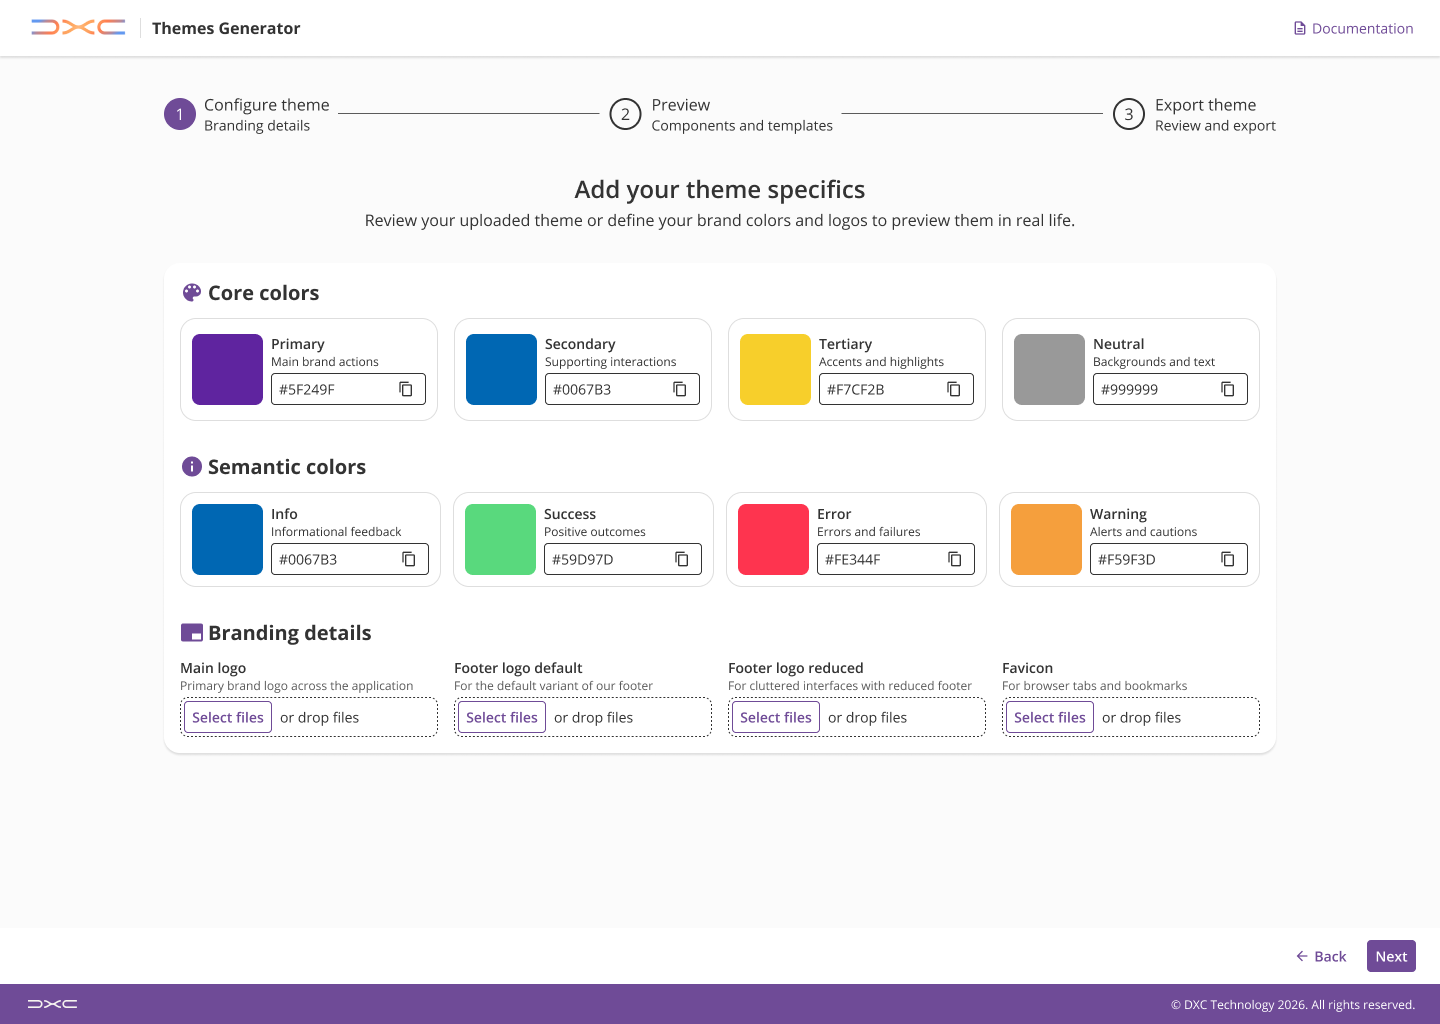
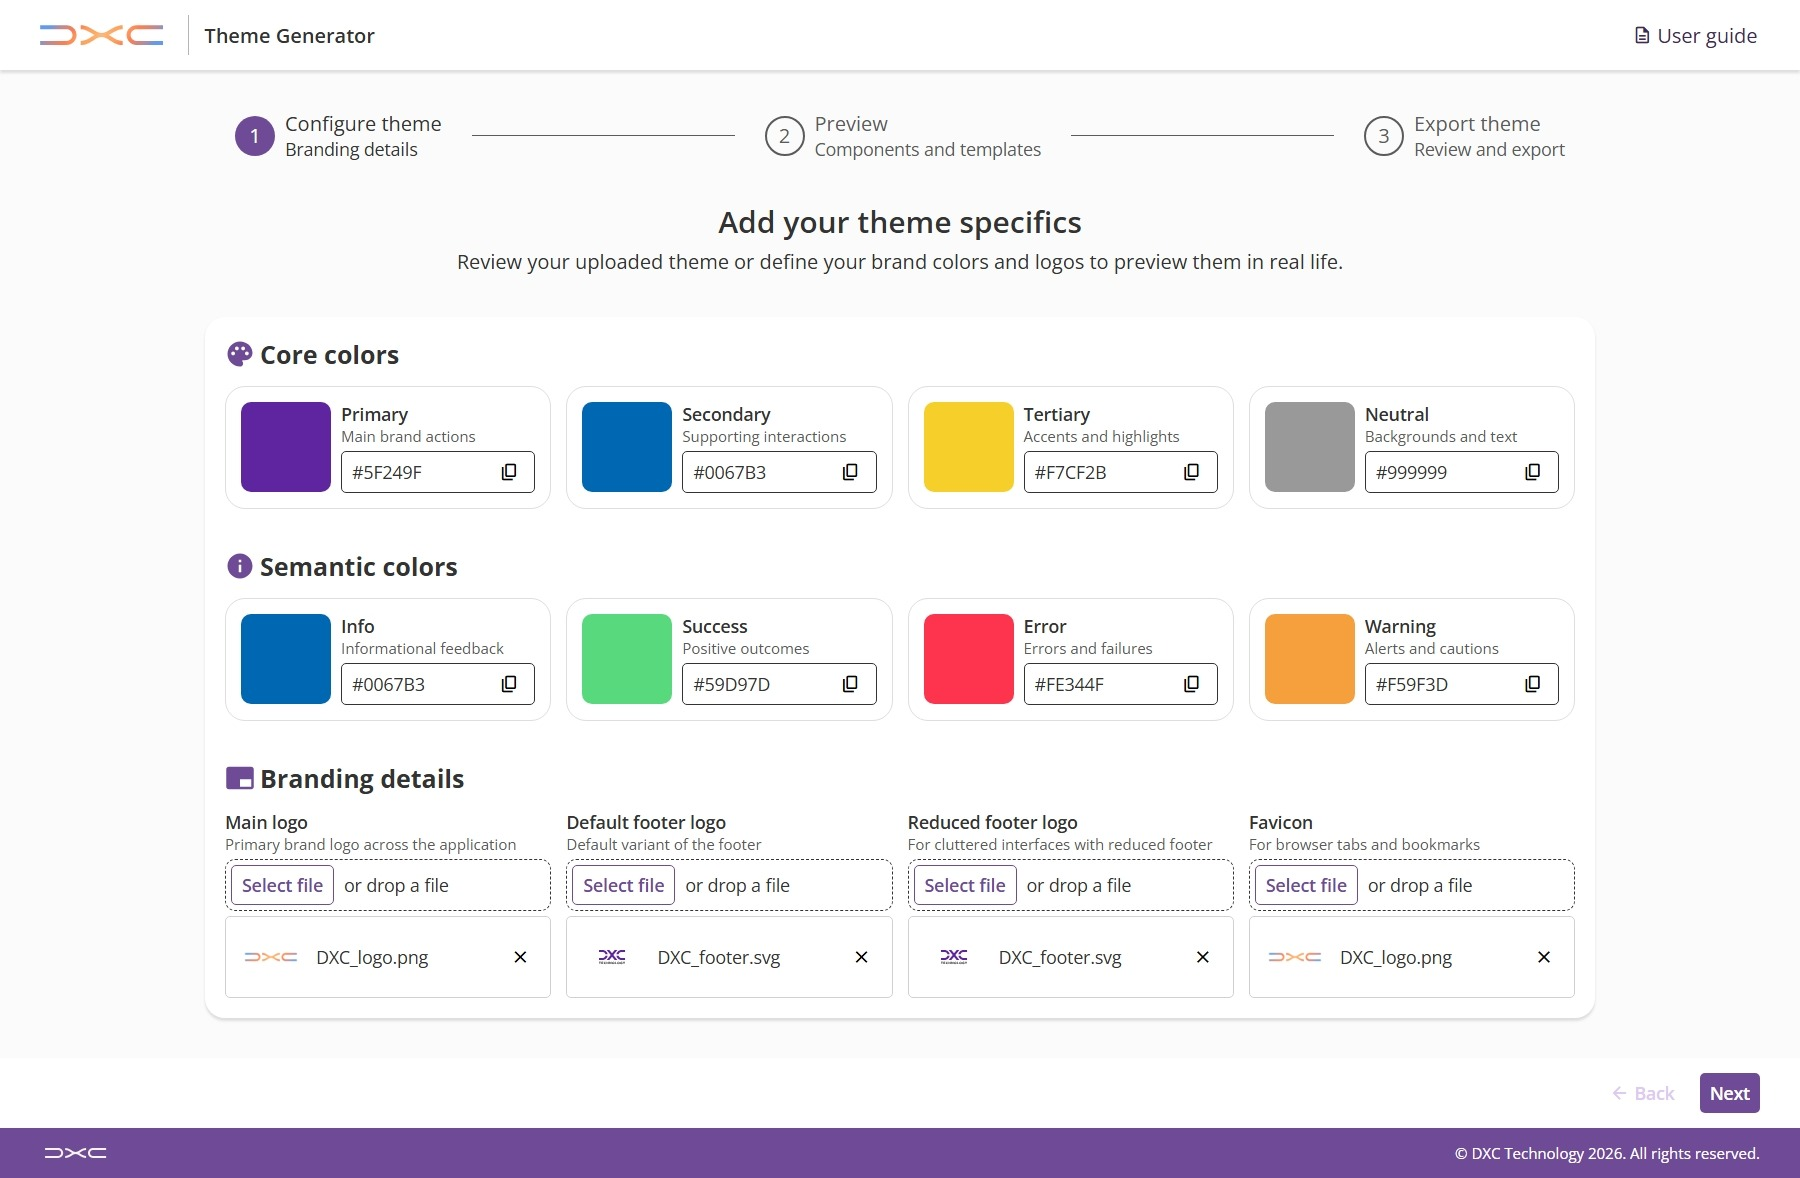
User guide screenshots updated with running app screeshots

diff --git a/apps/website/screens/theme-generator/ThemeGeneratorUserGuidePage.tsx b/apps/website/screens/theme-generator/ThemeGeneratorUserGuidePage.tsx
@@ -3,7 +3,8 @@ import Image from "@/common/Image";
 import DxcQuickNavContainer from "@/common/QuickNavContainer";
 import { DxcContainer, DxcFlex, DxcParagraph } from "@dxc-technology/halstack-react";
 import step1 from "./images/Step_1.png";
-import step2 from "./images/Step_2.png";
+import step2Components from "./images/Step_2_components.png";
+import step2Layout from "./images/Step_2_layout.png";
 import step3 from "./images/Step_3.png";
 
 const sections = [
@@ -84,8 +85,8 @@ const sections = [
                   specific tokens—such as primary button colors or semantic alerts—behave in isolation. Use the
                   selection menu to pick the specific elements you want to inspect.
                 </DxcParagraph>
-                <Figure caption="Preview your theme by applying the generated tokens to actual components.">
-                  <Image src={step2} alt="Theme generator step 2 components" />
+                <Figure caption="Preview your theme by applying the generated tokens to real components.">
+                  <Image src={step2Components} alt="Theme generator step 2 components" />
                 </Figure>
               </>
             ),
@@ -100,7 +101,9 @@ const sections = [
                   better sense of the overall feel of your theme. You can switch between the available layouts to see
                   how your theme looks in each of them.
                 </DxcParagraph>
-                {/* TODO: add image of the layout preview mode. */}
+                <Figure caption="Preview your theme by applying the generated tokens to different layout examples.">
+                  <Image src={step2Layout} alt="Theme generator step 2 layout" />
+                </Figure>
               </>
             ),
           },
